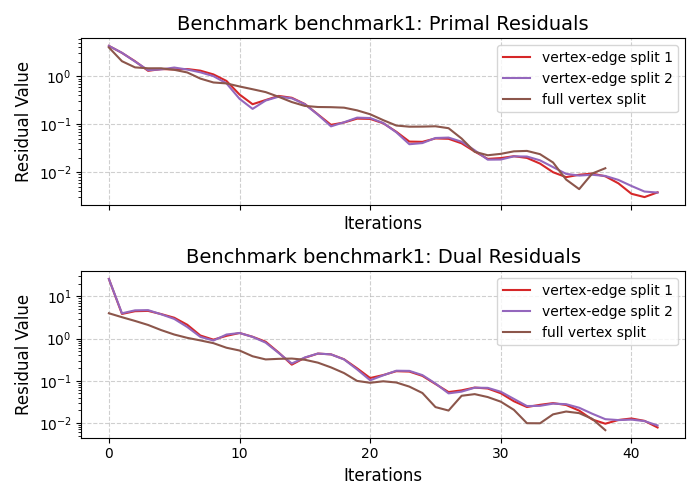
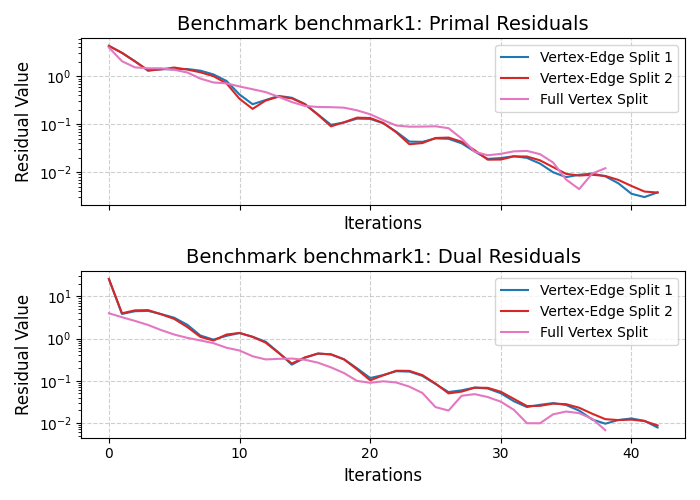
solve times plot

diff --git a/process_benchmark_data.py b/process_benchmark_data.py
@@ -32,9 +32,18 @@ for data_file_name, data in loaded_data.items():
 ################################################################################
 ##### Plot Primal & Dual Residuals
 ################################################################################
+# Predefined order and colors for algorithms
+algorithm_order = ["v1", "v2", "v3"]  # Adjust based on your naming conventions
+algorithm_labels = {
+    "v1": "Vertex-Edge Split 1",
+    "v2": "Vertex-Edge Split 2",
+    "v3": "Full Vertex Split"
+}
+colormap = matplotlib.colormaps['tab10']
+algorithm_colors = {alg: colormap(3*i) for i, alg in enumerate(algorithm_order)}  # 3*i to get some nice blue, red, pink
+
 # Group data by benchmarks
 benchmarks = {}
-solve_times = {}
 for data_file_name, data in loaded_data.items():
     # Extract benchmark identifier (assuming format "<algorithm_name>_benchmark<i>")
     benchmark_name = data_file_name.rsplit('_', 1)[-1]
@@ -43,36 +52,31 @@ for data_file_name, data in loaded_data.items():
     benchmarks[benchmark_name][data_file_name] = data
 
 # Generate Primal Residual & Dual Residual Plots
-colormap = matplotlib.colormaps['tab10']  # Updated API for colormap access
 for benchmark_name, algorithms_data in benchmarks.items():
     fig, axs = plt.subplots(2, 1, figsize=(7, 5), sharex=True)
     axs[0].set_title(f"Benchmark {benchmark_name}: Primal Residuals", fontsize=14)
     axs[1].set_title(f"Benchmark {benchmark_name}: Dual Residuals", fontsize=14)
     
-    # Cycle through colors for each algorithm
-    color_idx = 3  # start with red
-    
-    for algorithm_name, data in algorithms_data.items():
-        if data.get("ADMM"):  # Only plot if ADMM data is present
-            pri_res_seq = data.get("pri_res_seq", [])[1:]  # Skip the first residual value (initialization)
-            dual_res_seq = data.get("dual_res_seq", [])[1:]  # Skip the first residual value (initialization)
+    for algorithm_key in algorithm_order:
+        # Check if the algorithm exists in this benchmark
+        matched_data = None
+        for algorithm_name, data in algorithms_data.items():
+            if algorithm_key in algorithm_name:
+                matched_data = data
+                break
+        
+        if matched_data and matched_data.get("ADMM"):  # Only plot if ADMM data is present
+            pri_res_seq = matched_data.get("pri_res_seq", [])[1:]  # Skip the first residual value
+            dual_res_seq = matched_data.get("dual_res_seq", [])[1:]  # Skip the first residual value
             
-            # Assign a color from the colormap
-            color = colormap(color_idx % len(colormap.colors))
-            color_idx += 1
+            label = algorithm_labels.get(algorithm_key, algorithm_key)
+            color = algorithm_colors[algorithm_key]
             
-            # Plot primal residuals on a log scale
-            if "v1" in algorithm_name:
-                algorithm_name = "vertex-edge split 1"
-            elif "v2" in algorithm_name:
-                algorithm_name = "vertex-edge split 2"
-            elif "v3" in algorithm_name:
-                algorithm_name = "full vertex split"
+            # Plot primal residuals
+            axs[0].plot(pri_res_seq, label=label, color=color)
             
-            axs[0].plot(pri_res_seq, label=f"{algorithm_name}", color=color)
-            
-            # Plot dual residuals on a log scale
-            axs[1].plot(dual_res_seq, label=f"{algorithm_name}", color=color)
+            # Plot dual residuals
+            axs[1].plot(dual_res_seq, label=label, color=color)
 
     # Set log scale for both axes
     axs[0].set_yscale("log")
@@ -94,39 +98,67 @@ for benchmark_name, algorithms_data in benchmarks.items():
 ################################################################################
 ##### Plot Solve Times
 ################################################################################
+# Predefined order and colors for algorithms
+algorithm_order = ["classic", "v1", "v2", "v3"]  # Adjust based on your naming conventions
+algorithm_labels = {
+    "classic": "Commercial Solver",
+    "v1": "Vertex-Edge Split 1",
+    "v2": "Vertex-Edge Split 2",
+    "v3": "Full Vertex Split"
+}
+colormap = matplotlib.colormaps['tab10']
+algorithm_colors = {alg: colormap(3*(i-1)) for i, alg in enumerate(algorithm_order)}  # 3*i to get some nice blue, red, pink, (i-1) so that classic gets a different color
+algorithm_colors["classic"] = colormap(1)  # Set classic solver color]
+
+# Prepare data for solve time plot
+benchmark_ids = sorted(benchmarks.keys(), key=lambda x: int(x[-1]))  # Sort benchmarks numerically by ID
+solve_times = {alg: [] for alg in algorithm_order}  # Initialize solve time data for each algorithm
+
 # Collect solve times for each algorithm across benchmarks
-solve_times = {}
-benchmarks_list = sorted(benchmarks.keys(), key=lambda x: int(x.strip('benchmark')))
-benchmarks_list = ["benchmark1"]  # TEMPORARY
+for benchmark_id in benchmark_ids:
+    algorithms_data = benchmarks[benchmark_id]
+    for algorithm_key in algorithm_order:
+        # Match algorithm key to data
+        matched_data = None
+        for algorithm_name, data in algorithms_data.items():
+            if algorithm_key in algorithm_name:  # Match algorithm_key to its corresponding data
+                matched_data = data
+                break
+        
+        if matched_data:
+            solve_times[algorithm_key].append(matched_data.get("solve_time", None))
+        else:
+            solve_times[algorithm_key].append(None)  # Fill with None if no data for the algorithm
 
-for benchmark_name, algorithms_data in benchmarks.items():
-    for algorithm_name, data in algorithms_data.items():
-        if algorithm_name not in solve_times:
-            solve_times[algorithm_name] = []
-        solve_times[algorithm_name].append(data.get("solve_time", None))
+# Define custom labels for x-axis
+custom_labels = ["4 Vertices", "8 Vertices", "20 Vertices", "40 Vertices"]
 
-# Create the plot
-fig, ax = plt.subplots(figsize=(8, 5))
+# Plot solve times
+plt.figure(figsize=(8, 4))
+x_positions = range(1, len(benchmark_ids) + 1)  # Benchmarks as x-axis positions
 
-colormap = plt.cm.tab10
-colors = [colormap(i) for i in range(len(solve_times))]
+for algorithm_key in algorithm_order:
+    y_values = solve_times[algorithm_key]
+    label = algorithm_labels.get(algorithm_key, algorithm_key)
+    color = algorithm_colors[algorithm_key]
+    
+    # Mask None values to avoid plotting gaps
+    mask = [v is not None for v in y_values]
+    x_vals = np.array(x_positions)[mask]
+    y_vals = np.array(y_values)[mask]
+    
+    plt.plot(x_vals, y_vals, label=label, color=color, marker='o', linestyle='-')
 
-# Plot solve times for each algorithm
-for i, (algorithm_name, times) in enumerate(solve_times.items()):
-    # Ensure times are in the correct order of benchmarks
-    times = [times[benchmarks_list.index(f"benchmark{j+1}")] for j in range(len(benchmarks_list))]
-    ax.plot(benchmarks_list, times, marker='o', label=algorithm_name, color=colors[i])
+# Customize plot
+plt.title("Solve Times versus Problem Size", fontsize=16)
+plt.xlabel("Problem Size (# Vertices in GCS)", fontsize=14)
+plt.ylabel("Solve Time (s)", fontsize=14)
+plt.yscale("log")
+plt.xticks(ticks=x_positions, labels=custom_labels, fontsize=12)  # Use custom labels
+plt.legend(fontsize=12)
+plt.grid(True, linestyle='--', alpha=0.6)
 
-# Add labels, legend, and grid
-ax.set_title("Solve Times Across Benchmarks", fontsize=16)
-ax.set_xlabel("Benchmarks", fontsize=14)
-ax.set_ylabel("Solve Time (s)", fontsize=14)
-ax.set_xticks(benchmarks_list)
-ax.set_xticklabels([f"Benchmark {i+1}" for i in range(len(benchmarks_list))])
-ax.legend(fontsize=12, title="Algorithms")
-ax.grid(True, linestyle='--', alpha=0.6)
-
-# Adjust layout and save the plot
+# Save and show plot
 plt.tight_layout()
 plt.savefig("benchmark_data/plots/solve_times_across_benchmarks.png")
 plt.close()
